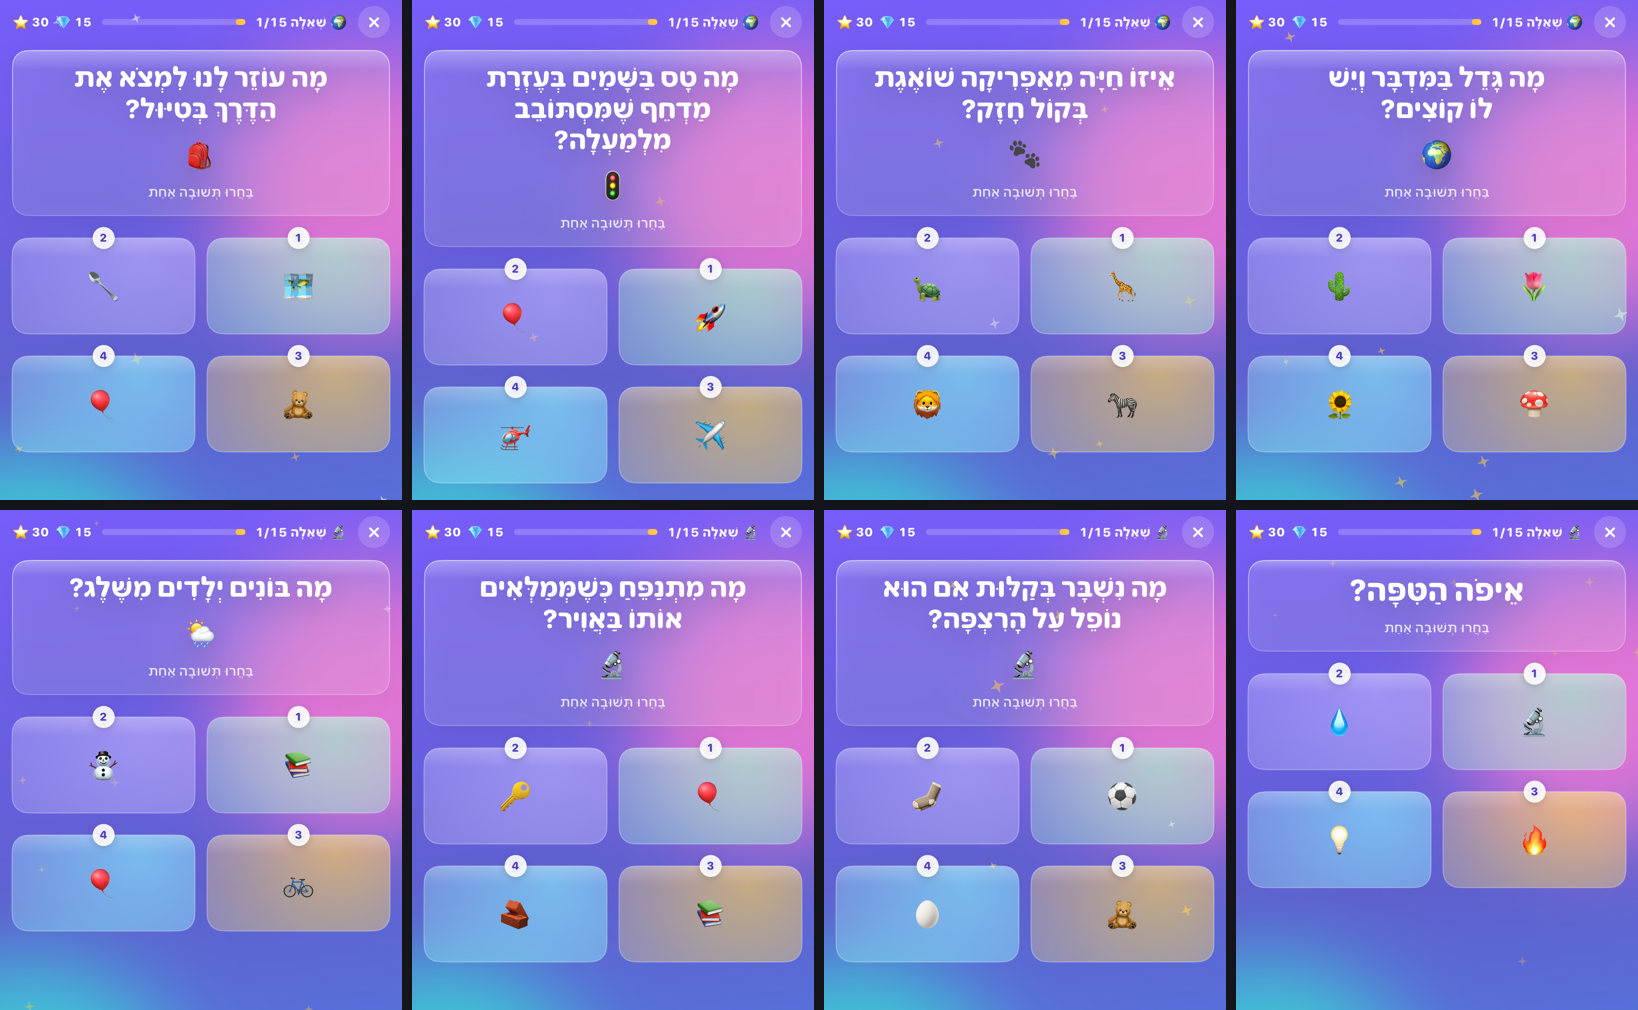
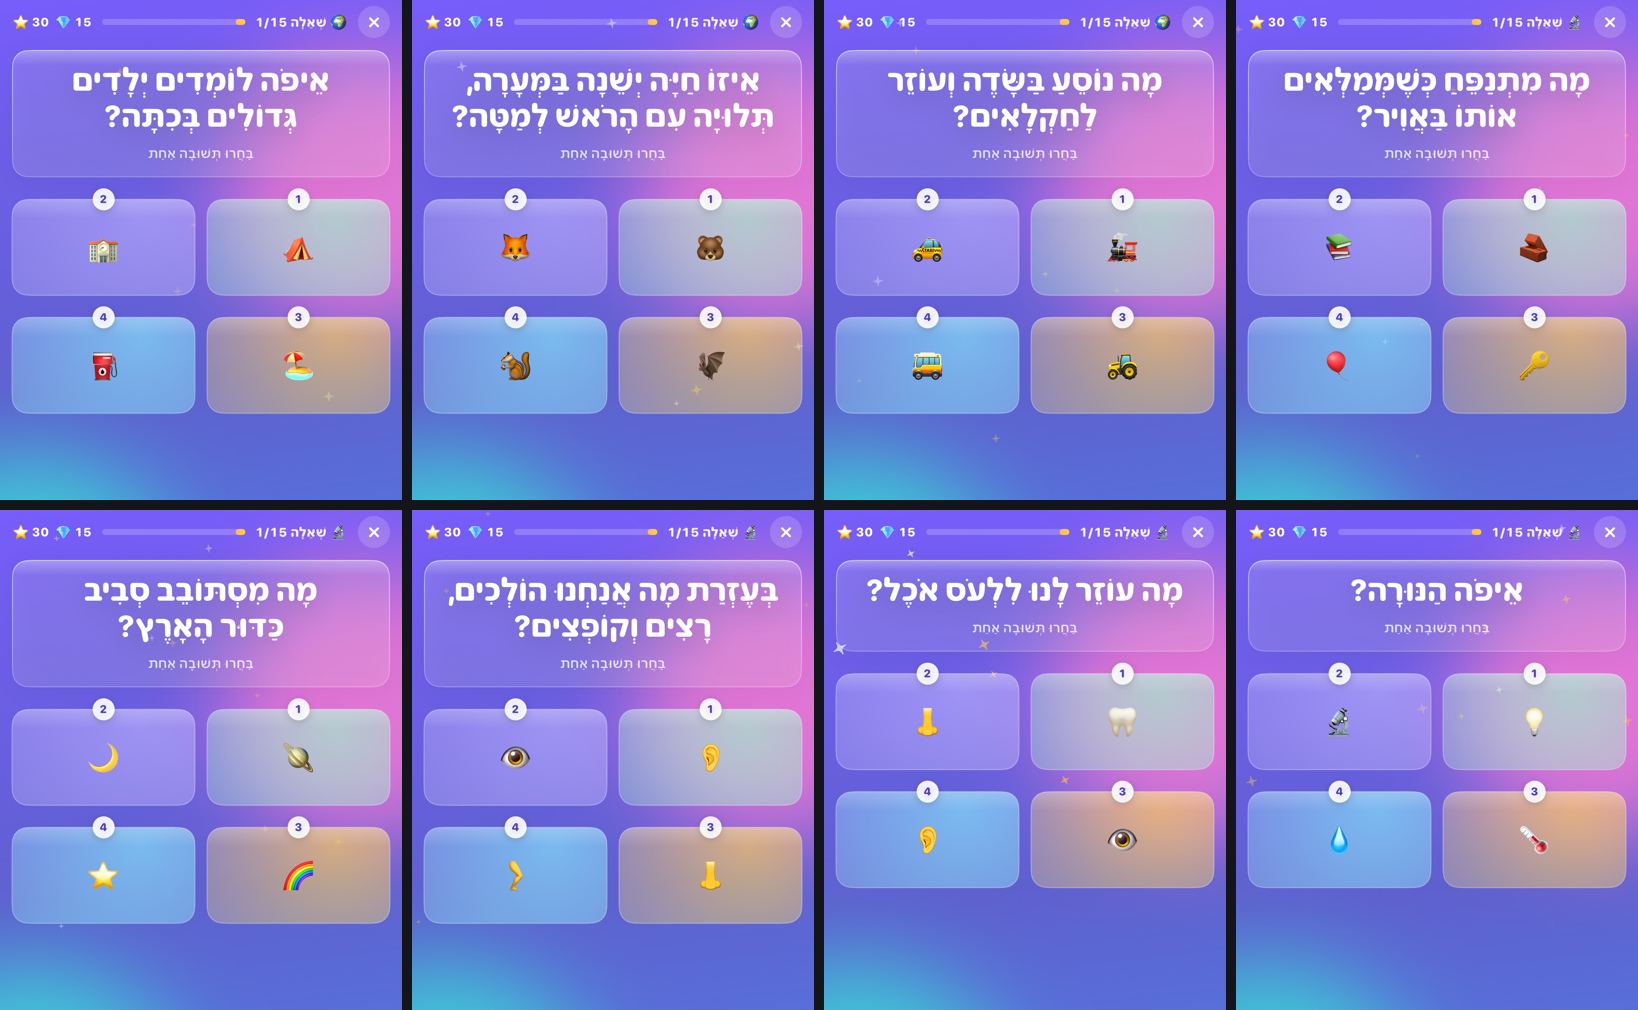
🧠 שאלות־תמונה לגן בלי אמוג'י בשאלה · 🏆 כרטיס החברים מתרענן גם אחרי התקנה מחדש
- שאלה שהתשובות שלה תמונות מציגה רק את המשפט (רני): שורת האמוג'י של הפריט נשמטת.
- לוח החברים: הדגל "יש לי כרטיס" חי על המכשיר, אז מכשיר שהותקן מחדש לא עדכן את
  הכוכבים בכרטיס הציבורי — יואב עמד אצל חברים על 16,997 כשיש לו 42,625. בלי הדגל
  שואלים את הענן פעם אחת. iOS + Android.

diff --git a/ChildTime/Models/PreReaderContent.swift b/ChildTime/Models/PreReaderContent.swift
@@ -48,14 +48,9 @@ enum PreReaderContent {
         guard pool.count >= minPicturePool, let b = pool.randomElement() else { return nil }
         let options = ([b.correctAnswer] + b.distractors.prefix(3)).shuffled()
         guard let correct = options.firstIndex(of: b.correctAnswer) else { return nil }
-        // The card draws `spoken` as the written line and `prompt` under it, so
-        // the prompt keeps the picture alone — the whole item would show the
-        // question twice. An item with no picture line is just its question.
-        guard let picture = pictureLine(of: b.prompt) else {
-            return Question(topic: topic, prompt: b.prompt, options: options, correctIndex: correct)
-        }
-        return Question(topic: topic, prompt: picture, options: options, correctIndex: correct,
-                        spoken: spokenText(of: b.prompt))
+        // The four answers are the pictures — the question stays words only, so
+        // the item's own picture line is dropped (Rani, 2026-10-11).
+        return Question(topic: topic, prompt: spokenText(of: b.prompt), options: options, correctIndex: correct)
     }
 
     static let minPicturePool = 8
@@ -84,18 +79,11 @@ enum PreReaderContent {
         }
     }
 
-    /// What to say: the question itself, without the picture line above it.
+    /// The question itself, without the picture line the bank item carries above it.
     static func spokenText(of prompt: String) -> String {
         let lines = prompt.split(separator: "\n").map { $0.trimmingCharacters(in: .whitespaces) }
         let spoken = lines.filter { line in line.unicodeScalars.contains(where: isLetter) }
         return spoken.isEmpty ? prompt : spoken.joined(separator: " ")
-    }
-
-    /// What to draw under the question: the lines that are pictures only.
-    static func pictureLine(of prompt: String) -> String? {
-        let lines = prompt.split(separator: "\n").map { $0.trimmingCharacters(in: .whitespaces) }
-        let pictures = lines.filter { line in !line.isEmpty && !line.unicodeScalars.contains(where: isLetter) }
-        return pictures.isEmpty || pictures.count == lines.count ? nil : pictures.joined(separator: " ")
     }
 
     // MARK: - 🔢 Math: count, add, take away, compare, find the digit

diff --git a/android/app/src/main/java/com/rani/tofy/kid/content/ReadingContent.kt b/android/app/src/main/java/com/rani/tofy/kid/content/ReadingContent.kt
@@ -114,10 +114,9 @@ object PreReaderContent {
         val b = pool[rng.nextInt(pool.size)]
         val options = (listOf(b.correctAnswer) + b.distractors.take(3)).shuffled(rng)
         val correct = options.indexOf(b.correctAnswer).takeIf { it >= 0 } ?: return null
-        // The card draws `spoken` as the written line and the prompt under it, so the
-        // prompt keeps the picture alone — the whole item would show the question twice.
-        val picture = pictureLine(b.prompt) ?: return Question(topic, b.prompt, options, correct)
-        return Question(topic, picture, options, correct, spoken = spokenText(b.prompt))
+        // The four answers are the pictures — the question stays words only, so the
+        // item's own picture line is dropped (Rani, 2026-10-11).
+        return Question(topic, spokenText(b.prompt), options, correct)
     }
 
     const val MIN_PICTURE_POOL = 8
@@ -133,17 +132,10 @@ object PreReaderContent {
         return options.size >= 4 && options.all { o -> o.isNotBlank() && o.none { it.isLetterOrDigit() } }
     }
 
-    /** What to say: the question itself, without the picture line above it. */
+    /** The question itself, without the picture line the bank item carries above it. */
     fun spokenText(prompt: String): String {
         val spoken = prompt.split("\n").map { it.trim() }.filter { line -> line.any { it.isLetter() } }
         return if (spoken.isEmpty()) prompt else spoken.joinToString(" ")
-    }
-
-    /** What to draw under the question: the lines that are pictures only. */
-    fun pictureLine(prompt: String): String? {
-        val lines = prompt.split("\n").map { it.trim() }.filter { it.isNotEmpty() }
-        val pictures = lines.filter { line -> line.none { it.isLetter() } }
-        return if (pictures.isEmpty() || pictures.size == lines.size) null else pictures.joinToString(" ")
     }
 
     // ── 🔢 Math: count, add, take away, compare, find the digit ──

diff --git a/ChildTimeTests/PreReaderPictureQuestionTests.swift b/ChildTimeTests/PreReaderPictureQuestionTests.swift
@@ -41,13 +41,12 @@ struct PreReaderPictureQuestionTests {
             #expect(q.correctAnswer == "🧊")
             #expect(q.readAloudText.hasPrefix("מָה נִהְיֶה"))
             #expect(!q.readAloudText.contains("🔬"))
-            // The card writes the question once and draws the picture under it.
-            #expect(q.prompt == "🔬")
+            // The answers are the pictures: the question itself is words only.
+            #expect(q.prompt.hasPrefix("מָה נִהְיֶה") && !q.prompt.contains("🔬"))
+            #expect(q.spoken == nil)
         }
-        // An item without a picture line is simply its question.
-        #expect(PreReaderContent.pictureLine(of: "מִי טוֹוֶה קוּרִים?") == nil)
-        #expect(PreReaderContent.pictureLine(of: "🕷\nמִי טוֹוֶה קוּרִים?") == "🕷")
-        // A picture line that carries the emoji presentation selector is still not spoken.
+        // A picture line that carries the emoji presentation selector is dropped too.
         #expect(PreReaderContent.spokenText(of: "🕷\nמִי טוֹוֶה קוּרִים?") == "מִי טוֹוֶה קוּרִים?")
+        #expect(PreReaderContent.spokenText(of: "מִי טוֹוֶה קוּרִים?") == "מִי טוֹוֶה קוּרִים?")
     }
 }

diff --git a/ChildTime/Models/FriendsManager.swift b/ChildTime/Models/FriendsManager.swift
@@ -444,10 +444,25 @@ final class FriendsManager: ObservableObject {
                     guard let self,
                           AuthManager.shared.isSignedIn,
                           let id = ProfileStore.shared.activeID?.uuidString,
-                          Self.cardExists(id) else { return }
+                          await self.hasCard(id) else { return }
                     await self.upsertMyCard(id: id)
                 }
             }
+    }
+
+    /// The "my card exists" flag lives on the device, so a reinstalled or a
+    /// second device never had it — and the child's public card kept the score
+    /// of the device that made it: Yoav stood on friends' boards with 16,997
+    /// while he had 42,625 (2026-10-11). Without the flag, ask the cloud once.
+    private func hasCard(_ id: String) async -> Bool {
+        if Self.cardExists(id) { return true }
+        #if canImport(FirebaseFirestore)
+        guard let doc = try? await db.collection("friendCards").document(id).getDocument(), doc.exists else { return false }
+        Self.markCardExists(id)
+        return true
+        #else
+        return false
+        #endif
     }
 
     private static func cardExists(_ id: String) -> Bool {

diff --git a/android/app/src/main/java/com/rani/tofy/kid/ui/social/FriendsRepository.kt b/android/app/src/main/java/com/rani/tofy/kid/ui/social/FriendsRepository.kt
@@ -340,10 +340,23 @@ object FriendsRepository {
         scoreSync = scope.launch {
             KidSession.state.map { it?.snapshot?.stars }.distinctUntilChanged().drop(1).debounce(2500).collect {
                 val id = SocialMe.id ?: return@collect
-                if (!SocialMe.isSignedIn || !cardExists(id)) return@collect
+                if (!SocialMe.isSignedIn || !hasCard(id)) return@collect
                 upsertMyCard(id)
             }
         }
+    }
+
+    /**
+     * The "my card exists" flag lives on the device, so a reinstalled or a second
+     * device never had it — and the child's public card kept the score of the device
+     * that made it (Yoav: 16,997 on friends' boards with 42,625 stars, 2026-10-11).
+     * Without the flag, ask the cloud once.
+     */
+    private suspend fun hasCard(id: String): Boolean {
+        if (cardExists(id)) return true
+        val exists = runCatching { cards().document(id).get().await().exists() }.getOrDefault(false)
+        if (exists) markCardExists(id)
+        return exists
     }
 
     private fun cardExists(id: String) = prefs?.getBoolean("friendCard.exists.$id", false) ?: false

diff --git a/android/app/src/test/java/com/rani/tofy/kid/content/PreReaderPictureQuestionTest.kt b/android/app/src/test/java/com/rani/tofy/kid/content/PreReaderPictureQuestionTest.kt
@@ -38,9 +38,10 @@ class PreReaderPictureQuestionTest {
             val q = PreReaderContent.pictureQuestion(pictures, Topic.SCIENCE, Random(seed))!!
             assertEquals(setOf("🧊", "🔥", "🌈", "🍃"), q.options.toSet())
             assertEquals("🧊", q.options[q.correctIndex])
-            assertTrue(q.spoken!!.startsWith("מָה נִהְיֶה"))
-            assertFalse(q.spoken!!.contains("🔬"))
-            assertEquals("🔬", q.prompt)          // the question is written once, the picture under it
+            // The answers are the pictures: the question itself is words only.
+            assertTrue(q.prompt.startsWith("מָה נִהְיֶה"))
+            assertFalse(q.prompt.contains("🔬"))
+            assertNull(q.spoken)
         }
     }
 }
